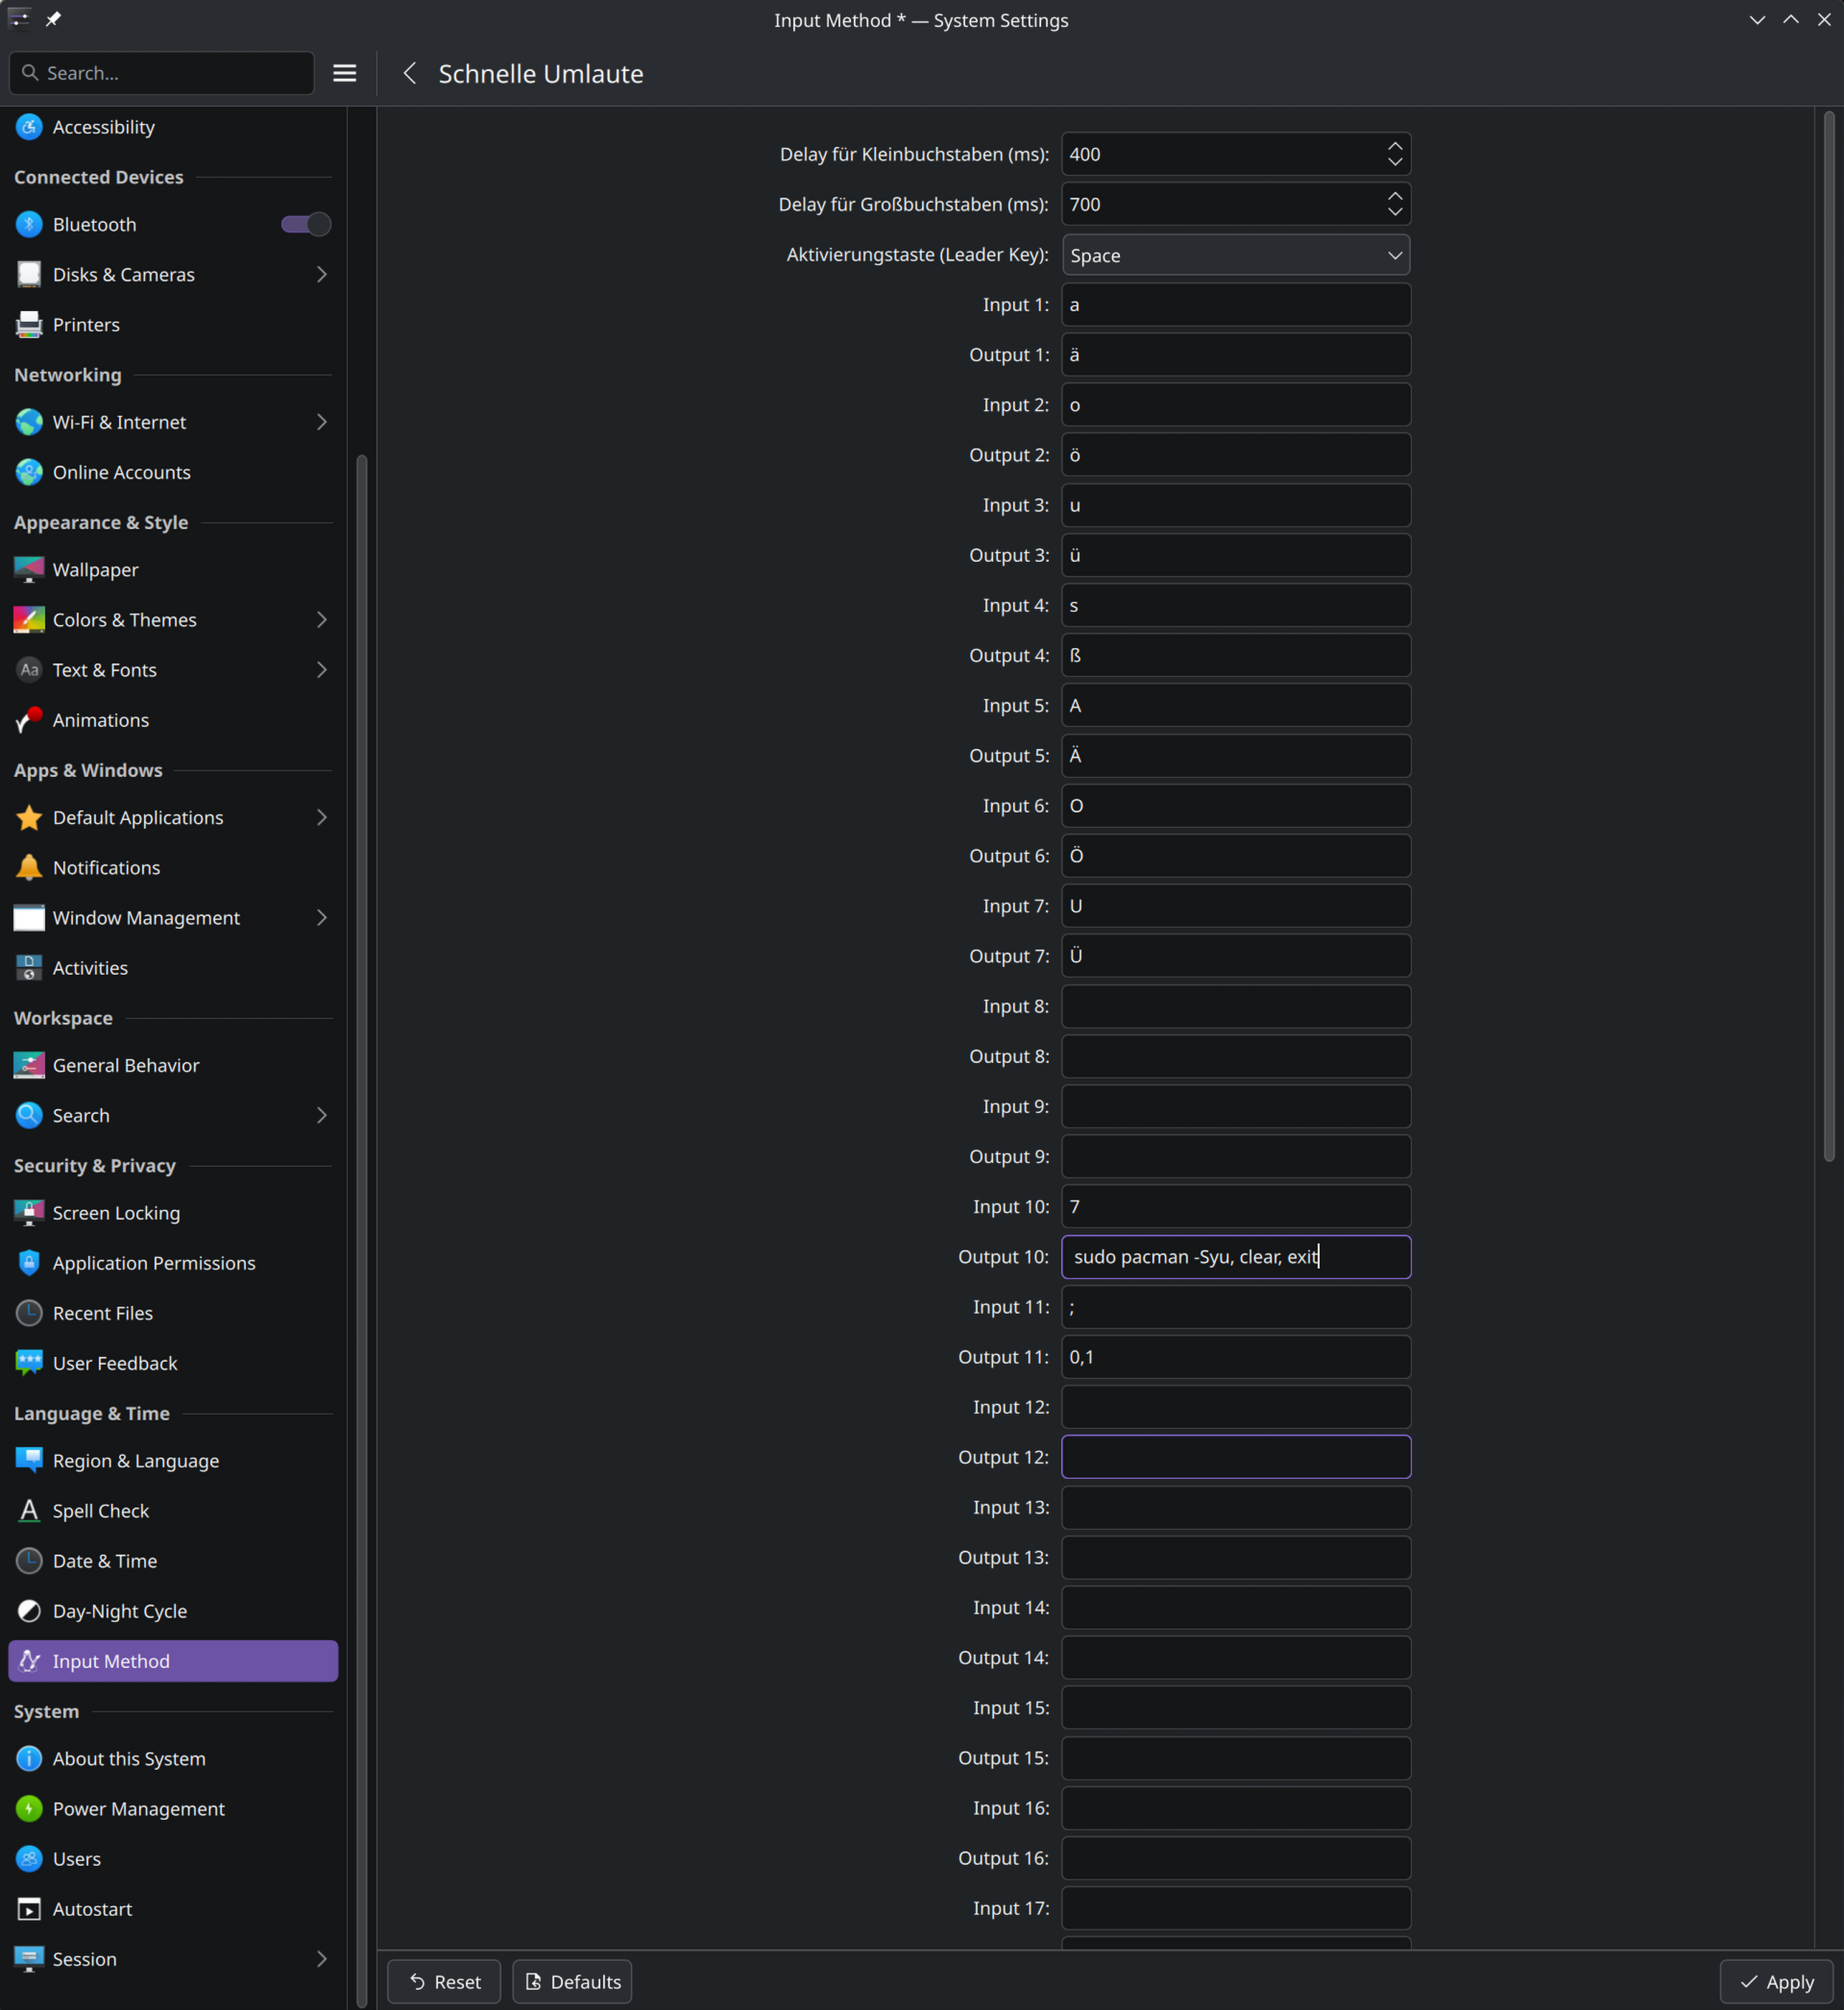
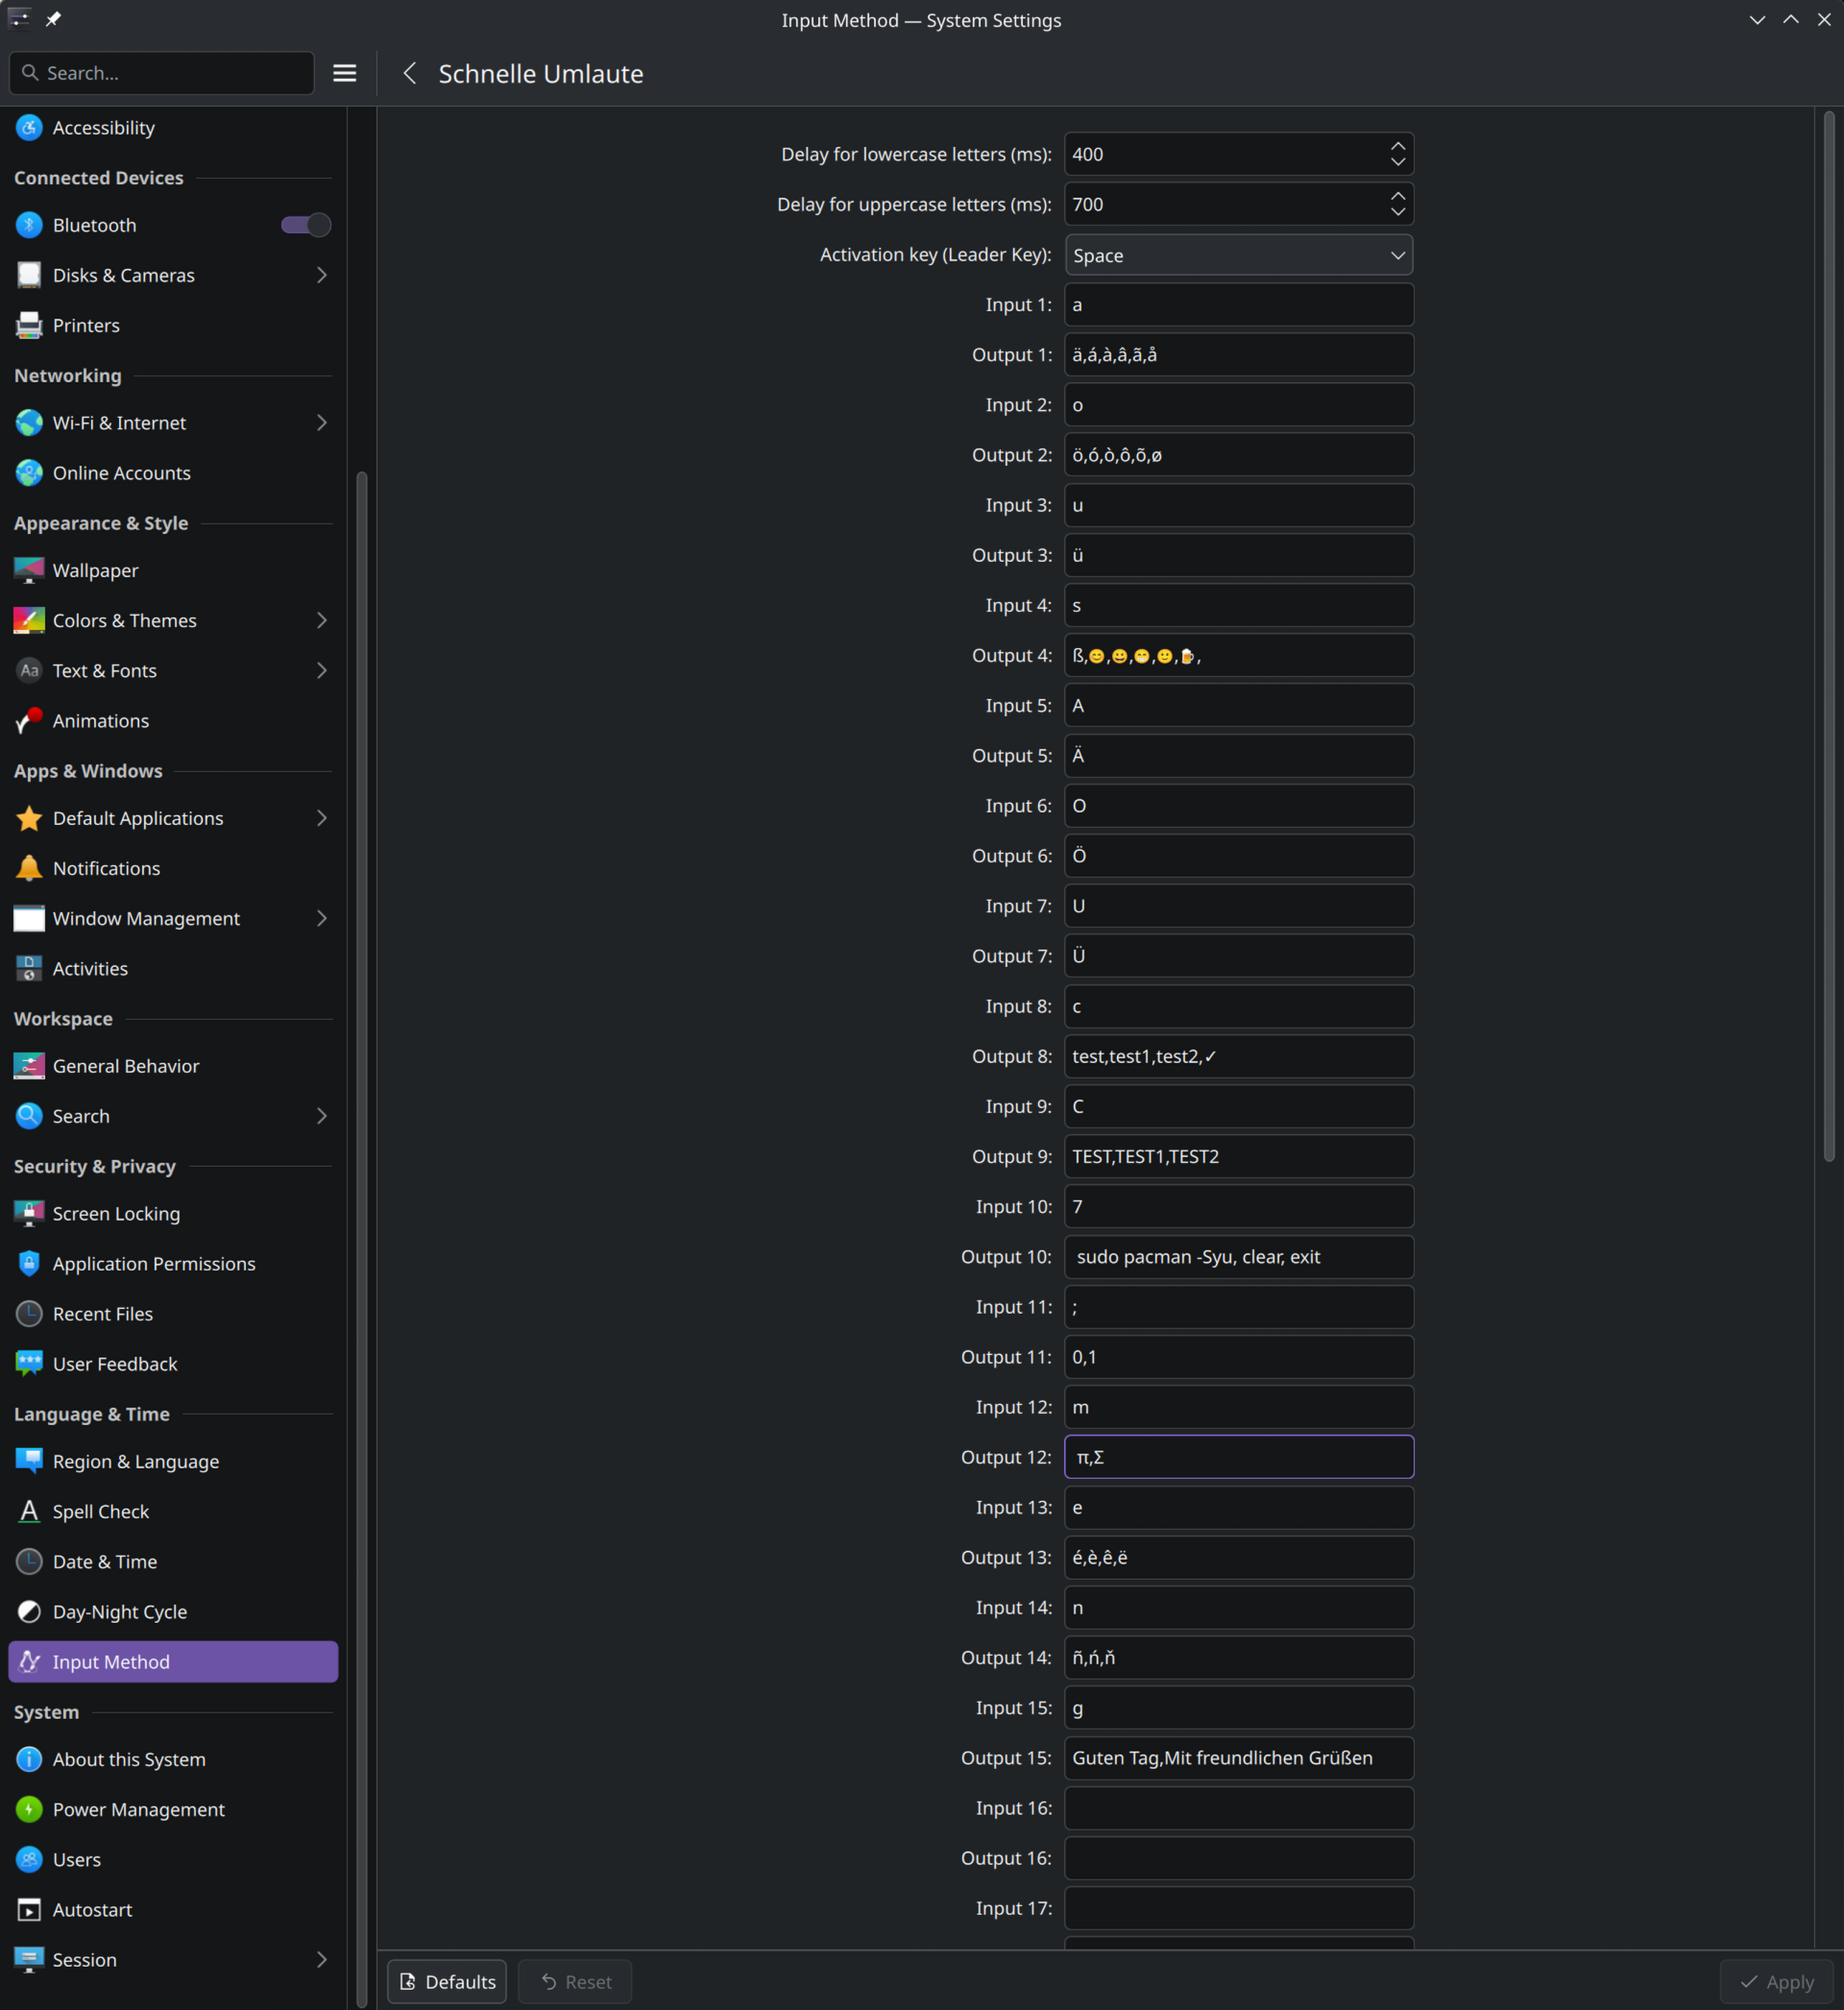
i18n: Translate config descriptions to English, update screenshot

diff --git a/addon/src/schnelle-umlaute.cpp b/addon/src/schnelle-umlaute.cpp
@@ -43,9 +43,9 @@ private:
 
 FCITX_CONFIGURATION(
     SchnelleUmlauteConfig,
-    Option<int, IntConstrainWithStep> delayLowercase{this, "DelayLowercase", "Delay für Kleinbuchstaben (ms)", 400, IntConstrainWithStep(50, 2000, 25)};
-    Option<int, IntConstrainWithStep> delayUppercase{this, "DelayUppercase", "Delay für Großbuchstaben (ms)", 700, IntConstrainWithStep(50, 2000, 25)};
-    Option<LeaderKey> leaderKey{this, "LeaderKey", "Aktivierungstaste (Leader Key)", LeaderKey::Space};
+    Option<int, IntConstrainWithStep> delayLowercase{this, "DelayLowercase", "Delay for lowercase letters (ms)", 400, IntConstrainWithStep(50, 2000, 25)};
+    Option<int, IntConstrainWithStep> delayUppercase{this, "DelayUppercase", "Delay for uppercase letters (ms)", 700, IntConstrainWithStep(50, 2000, 25)};
+    Option<LeaderKey> leaderKey{this, "LeaderKey", "Activation key (Leader Key)", LeaderKey::Space};
     Option<std::string> mapping1Input{this, "Mapping1Input", "Input 1", "a"};
     Option<std::string> mapping1Output{this, "Mapping1Output", "Output 1", "ä"};
     Option<std::string> mapping2Input{this, "Mapping2Input", "Input 2", "o"};
